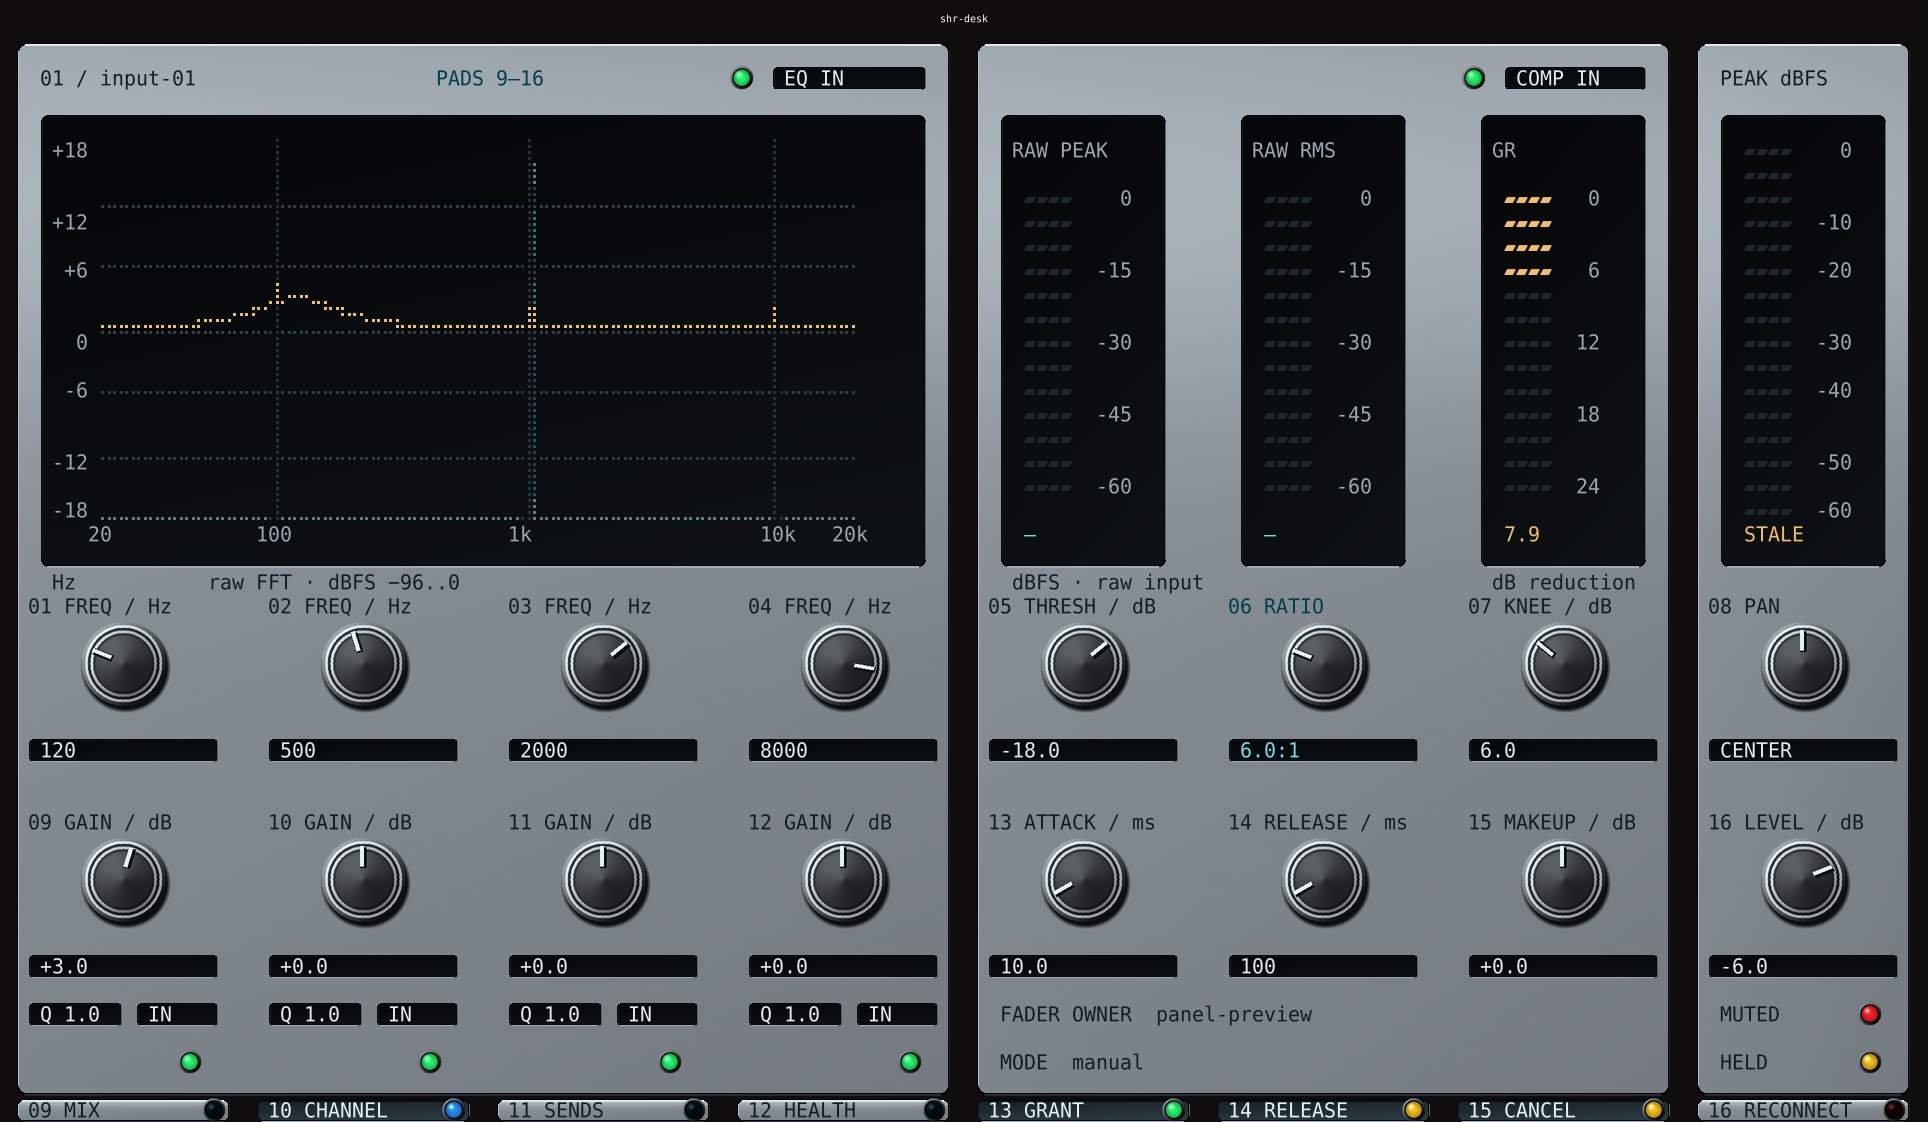
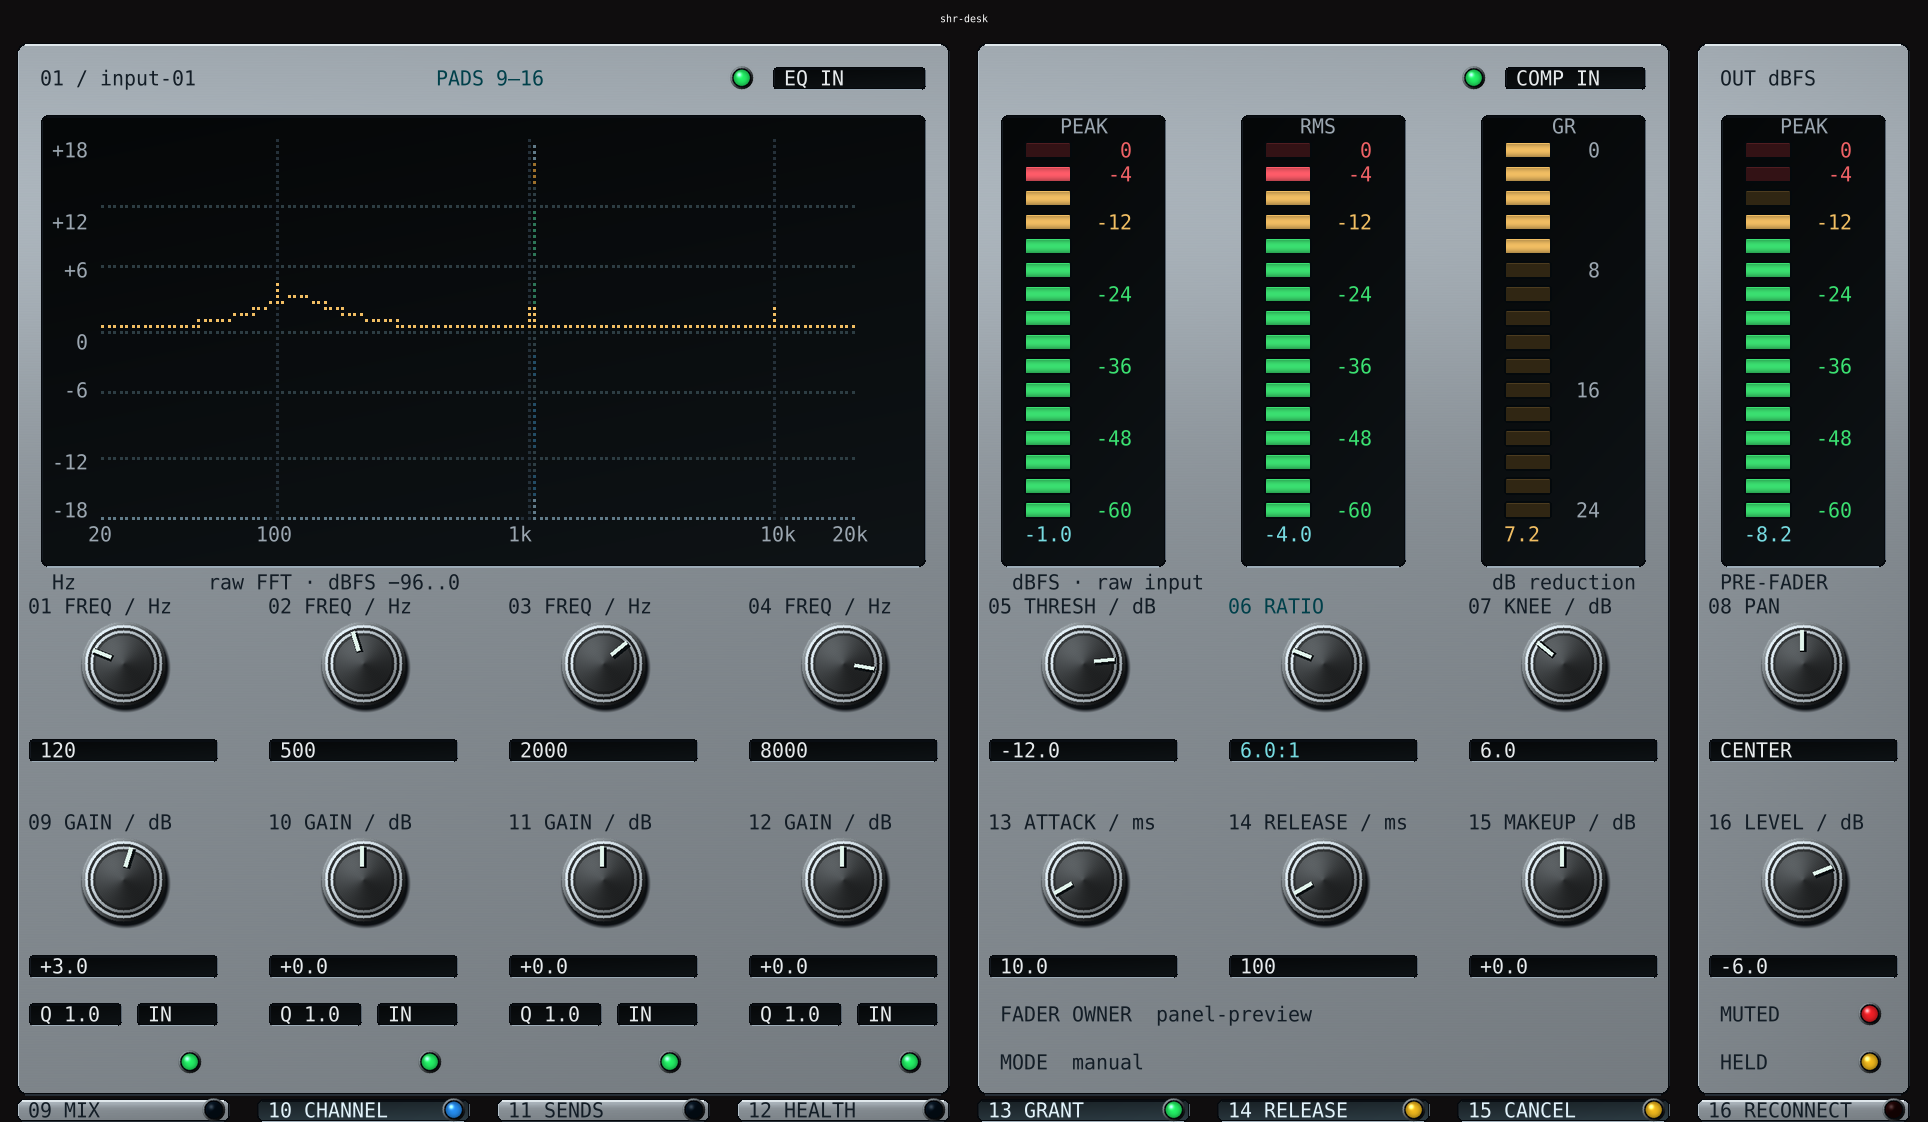
Update Channel evidence and fix CI socket-refusal test

diff --git a/tests/gp06.rs b/tests/gp06.rs
@@ -227,8 +227,28 @@ fn fragmentation_malformed_lengths_incomplete_timeout_and_capacity() {
     for length in [0_u32, 65537, u32::MAX] {
         let mut socket = UnixStream::connect(dir.0.join("audio.sock")).unwrap();
         socket.write_all(&length.to_be_bytes()).unwrap();
-        s.tick(0).unwrap();
-        assert_eq!(s.client_count(), 0);
+        socket.set_nonblocking(true).unwrap();
+        // A nonblocking accept/read may make no progress (WouldBlock or EINTR).
+        // Observe the peer closing, rather than assuming one tick consumed the
+        // header. Keep provider time fixed: this must be length refusal, not
+        // the production incomplete-frame timeout.
+        let deadline = std::time::Instant::now() + std::time::Duration::from_secs(1);
+        loop {
+            s.tick(0).unwrap();
+            match socket.read(&mut [0; 1]) {
+                Ok(0) => break,
+                Err(e) if e.kind() == ErrorKind::ConnectionReset => break,
+                Err(e) if matches!(e.kind(), ErrorKind::WouldBlock | ErrorKind::Interrupted) => {
+                    assert!(
+                        std::time::Instant::now() < deadline,
+                        "length {length} was not refused"
+                    );
+                    std::thread::yield_now();
+                }
+                other => panic!("unexpected response to malformed length {length}: {other:?}"),
+            }
+        }
+        assert_eq!(s.client_count(), 0, "malformed length {length}");
     }
     let mut partial = UnixStream::connect(dir.0.join("audio.sock")).unwrap();
     partial.write_all(&[0]).unwrap();

diff --git a/scripts/preview_panel_providers.py b/scripts/preview_panel_providers.py
@@ -12,6 +12,7 @@ parser=argparse.ArgumentParser(description=__doc__)
 parser.add_argument('providers',nargs='*',choices=['desk','lightdesk'])
 parser.add_argument('--cpu-terminal',action='store_true')
 parser.add_argument('--spectrum',action='store_true',help='Explicit deterministic software PCM through real spectrum provider')
+parser.add_argument('--spectrum-hot',action='store_true',help='Deterministic -1 dBFS input through real processing; software evidence only')
 parser.add_argument('--materials',action='store_true',help='Channel-only cached material experiment')
 parser.add_argument('--disconnect',action='store_true')
 parser.add_argument('--channel',action='store_true',help='Desk channel page with explicit injected software role; no devices')
@@ -29,7 +30,7 @@ for name in names:
  if name=='desk':
   identity=directory/'audio.identity';epoch=str(int(json.loads(identity.read_text())['high_epoch'])+1) if identity.exists() else '1'
   provider=[str(root/'target/release/gigpies-headless'),'--directory',str(directory),'--show',show,'--epoch',epoch,'--ticks','60000']
-  if args.spectrum:provider=[str(root/'target/debug/examples/spectrum-source'),str(directory),show,epoch,'tones']
+  if args.spectrum or args.spectrum_hot:provider=[str(root/'target/debug/examples/spectrum-source'),str(directory),show,epoch,'hot' if args.spectrum_hot else 'tones']
   socket=directory/'audio.sock'
   app=[str(root.parent/'shr-desk/target/debug/shr-desk'),'--terminal',str(socket),show,epoch,'panel-preview','foh','--processing']
   if args.channel:

diff --git a/examples/spectrum-source.rs b/examples/spectrum-source.rs
@@ -7,10 +7,10 @@ use std::{
 fn main() -> Result<(), String> {
     let a: Vec<_> = std::env::args().collect();
     if a.len() != 5 {
-        return Err("spectrum-source PRIVATE_DIRECTORY SHOW_UUID EPOCH tones|sequence".into());
+        return Err("spectrum-source PRIVATE_DIRECTORY SHOW_UUID EPOCH tones|sequence|hot".into());
     }
     let epoch = a[3].parse().map_err(|_| "epoch")?;
-    if !matches!(a[4].as_str(), "tones" | "sequence") {
+    if !matches!(a[4].as_str(), "tones" | "sequence" | "hot") {
         return Err("mode".into());
     }
     let t = EngineTopology::legacy();
@@ -26,6 +26,7 @@ fn main() -> Result<(), String> {
             0
         };
         let amplitude = match phase {
+            0 if a[4] == "hot" => 0.891_250_938, // -1 dBFS peak, software evidence only
             0 => 0.5,
             1 => 0.125,
             2 => 0.,

diff --git a/docs/development/MODULE_IMPLEMENTATION_PLAN.md b/docs/development/MODULE_IMPLEMENTATION_PLAN.md
@@ -747,6 +747,57 @@ replacements, reusable source/commands and this owning result record.
 
 ### Selected Channel vertical separation — 2026-10-20
 
+Approved meter refinement: all four meters have 16 segments, centred titles on
+row 3 (first black row), bars on rows 4–19 and readings on row 20. The master’s
+original positions remain fixed. Level scales match from 0 to −60 dBFS; GR uses
+0…24 dB downward. Cached LED strips show green below −12, amber below −4 and red
+up to 0; dim strips describe the scale without implying a fresh observation.
+Six original sprites add 1,596 base64 bytes (124 assets / 710,924 bytes total).
+Assets upload once and placements are diffed; ordinary text retains the colours.
+OUT/PRE-FADER now reads actual `input-NN:processed` samples after EQ/compression,
+before mute/fader/pan, instead of repeating raw input or estimating output from GR.
+No DSP/authority/MIDI/hardware path changed.
+
+Both final files in `docs/assets/` are actual Rio/tiny-skia/Xvfb production captures
+of deterministic software audio, not hardware measurements:
+- `panel-desk-channel.png` (378,397 bytes): hot input peak −1.0 dBFS, RMS −4.0,
+  actual GR 7.2 dB and processed output −8.2 dBFS; +3 dB EQ, threshold −12 dB,
+  ratio 4:1. Input reaches red; output stays lower.
+- `panel-desk-channel-draft.png` (383,314 bytes): same aligned geometry, muted/Hold,
+  pads 9–16 and local 6:1 draft; independent owner readback remains 4:1. Pre-fader
+  observation intentionally remains active under channel mute.
+
+The operator approved the refinement and authorized source commit/push. Reproduce:
+
+```sh
+/usr/bin/python3 scripts/preview_panel_providers.py desk --channel --materials --spectrum-hot --cpu-terminal --suffix channel --keys g,e,k,i,i,3,Return,i,i,i,i,i,i,i,i,i,i,i,i,i,i,i,k,i,minus,1,2,Return,i,4,Return,F4,Next,Return
+```
+
+Append the documented mute/Hold/draft gestures and `--click 540,78` for secondary
+pads. The `hot` example mode is software-only; normal `tones`/`sequence` are
+unchanged. Helpers remove private runtime state; only two final PNGs are retained.
+The preceding iteration’s cleanup removed 47 disposable files (3,528,265,386 bytes).
+
+CI investigation: [GigPies run 39404031575](https://github.com/PaolaShultz/gigpies/actions/runs/39404031575)
+failed `tests/gp06.rs:231`, expecting zero clients after one nonblocking tick on a
+malformed header. The harness now waits for actual EOF/reset under a one-second
+wall-clock deadline, holding provider time at zero so incomplete-frame timeout
+cannot mask missing length refusal. Production limits/timeouts are unchanged.
+Desk’s preceding CI passed; GigPies’ hardware-host job was cancelled by fail-fast.
+Publication validation passed: Desk 334 default / 337 native tests (23 opt-ins
+ignored each); GigPies 445 default tests (20 opt-ins ignored) and 13 GP06 tests
+with hardware-host. Both feature configurations passed all-target Clippy with
+warnings denied and formatting. Python suites passed 50 GigPies / 9 Desk tests;
+complete-index publication guards passed. Unrelated historical, exhaustive and
+physical hardware tests stayed opt-in. No production DSP changed; hosted CI runs
+the full hardware-host suite and release builds. Desk source is pushed as
+`12e6a64`; the GigPies source is ready for the authorized commit/push.
+Cleanup under the idle shared lock removed 138 newly created test executables
+(12,780,671,848 file bytes / 12,777,668,608 allocated bytes), preserving application
+binaries, shared caches, authored source and both final screenshots.
+
+Earlier vertical-separation evidence (superseded appearance; retained measurements):
+
 The operator rejected the cross-section EQ expansion. This revision restores
 three independent full-height metal plates: EQ columns 1–4, compressor 5–7,
 output 8. The EQ keeps 16 usable rows and the genuine spectrum behind the curve,

diff --git a/docs/reference/INSTRUMENT_PANEL.md b/docs/reference/INSTRUMENT_PANEL.md
@@ -224,9 +224,12 @@ were recorded; the source and repeatable commands remain.
 
 ## Desk selected-channel page
 
-![Approved selected Channel panel with separate EQ, compressor and output sections](../assets/panel-desk-channel.png)
+![Selected Channel panel with coloured LED meters and separate EQ, compressor and output sections](../assets/panel-desk-channel.png)
 
-Approved October 20, 2026. Actual production terminal capture using deterministic
+Layout approved October 20, 2026. This updated actual-terminal capture shows
+the aligned 16-segment meters, centred titles and measured post-processing
+output. The meter refinement is also approved.
+Actual production terminal capture using deterministic
 software audio; no physical audio or MIDI qualification is implied.
 
 The dedicated Ratatui Channel page requires the existing `--processing` capability

diff --git a/examples/README.md b/examples/README.md
@@ -19,3 +19,8 @@ seconds. It never opens PCM/MIDI or outputs audio. The regular provider and Desk
 contain no synthetic spectrum generator. Use `preview_panel_providers.py desk
 --channel --materials --spectrum --cpu-terminal --suffix channel` for actual Rio
 proof; GP-PANEL owns the measured results and final screenshots.
+
+The software-only `spectrum-source` example also accepts `hot`: a −1 dBFS peak
+tone for inspecting input meter warning colours and actual post-processing
+readback. `scripts/preview_panel_providers.py desk --channel --materials
+--cpu-terminal --spectrum-hot` selects it; no physical audio device is opened.
